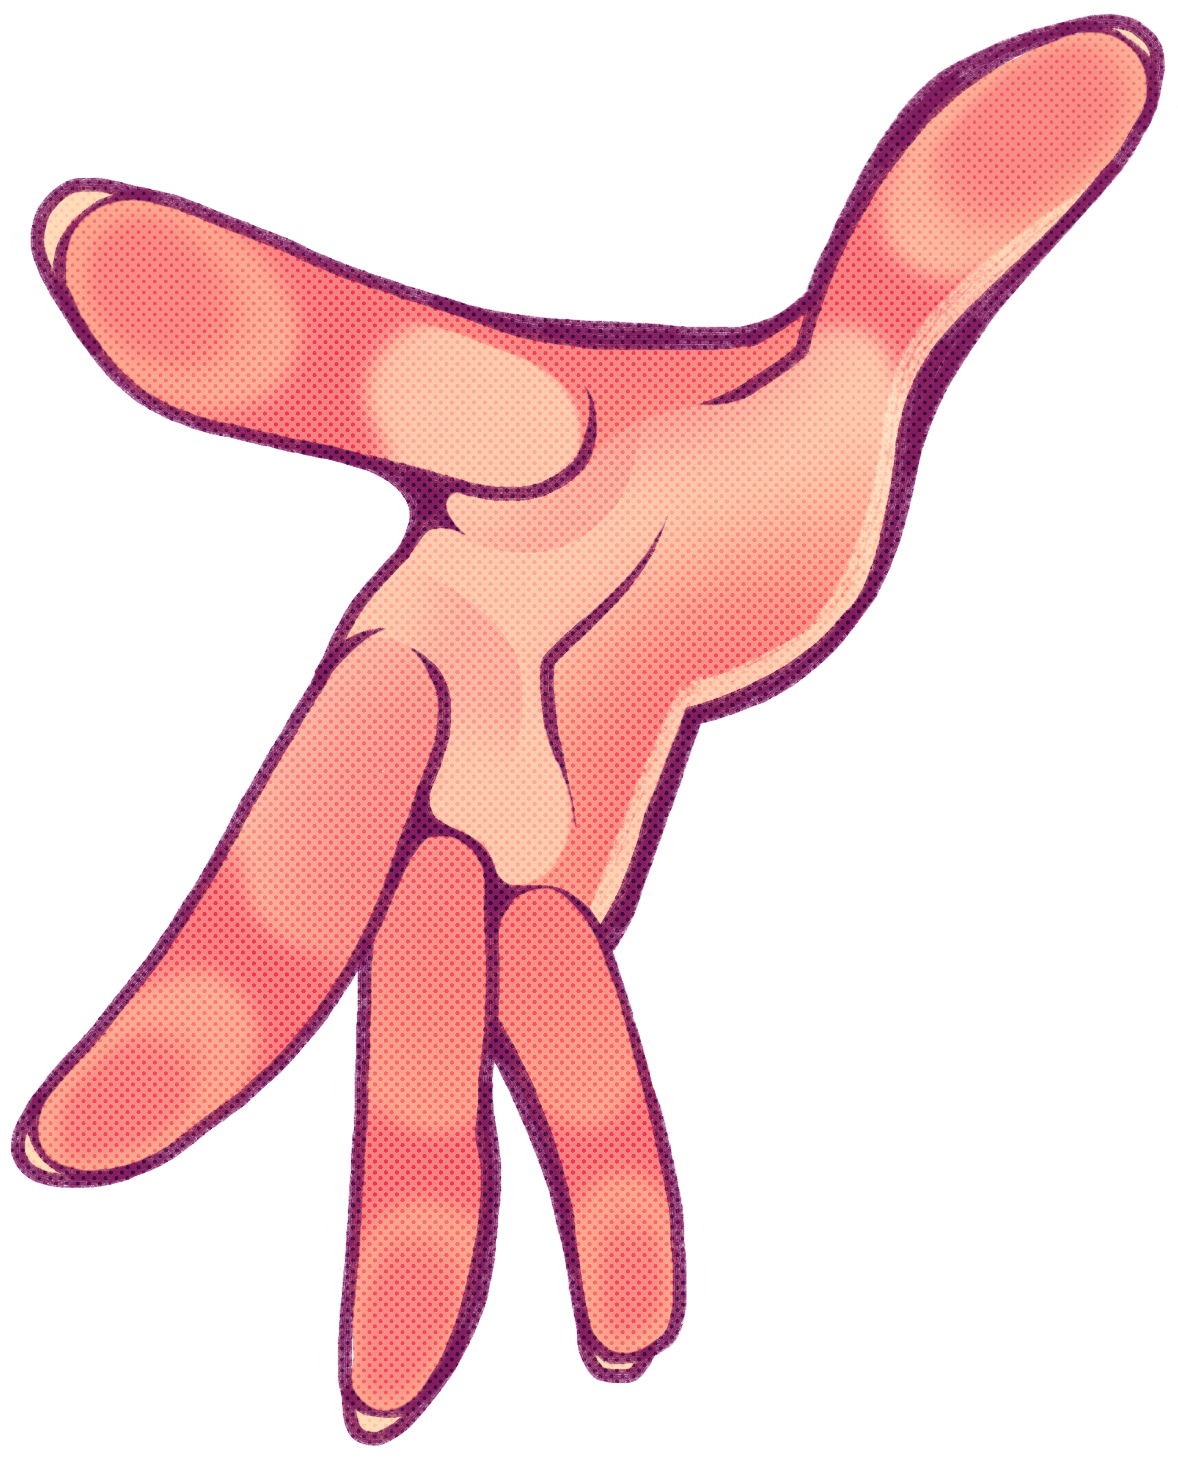
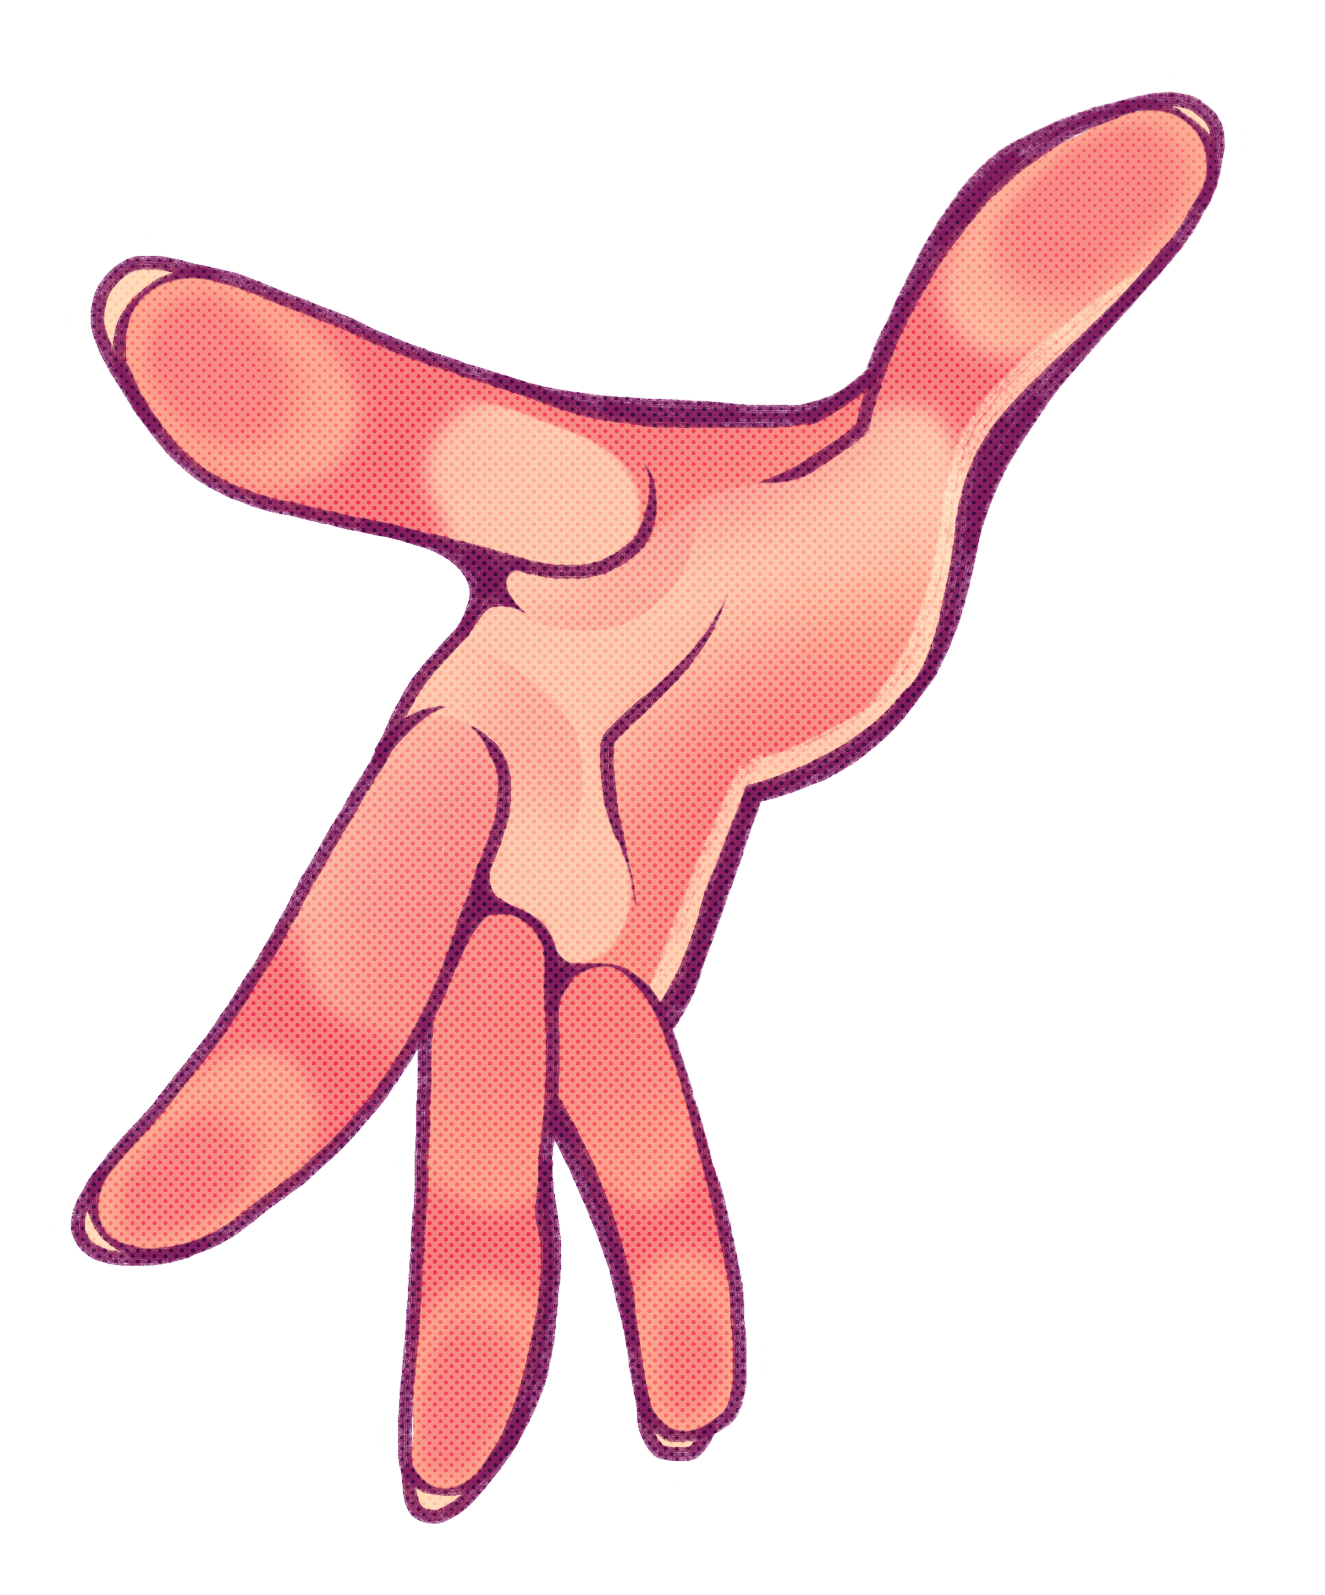
Add files via upload

Changed region(s): [[0.0, 0.0, 1.0, 1.0]]

diff --git a/style.css b/style.css
@@ -1,62 +1,119 @@
-.desktop {
+/*Desktop*/
+.bg {
+  background-image: url("imgs/bg.png");
+  background-repeat: no-repeat;
+  background-size: auto;
+  background-attachment: fixed;
+}
+
+.pu {
   position: fixed;
-  left: -5px;
   top: -5px;
+  left: -5px;
 }
 
-.desktop .bg {
+.pd {
+  position: fixed;
+  top: 800px;
+  left: -5px;
+}
+
+.me {
   position: absolute;
-  width: 1920px;
-  height: 1080px;
-  object-fit: cover;
+  position: fixed;
+  width: 1200px;
+  left: 700px;
 }
 
-.desktop .me {
+.hand {
   position: absolute;
-  top: 0;
-  left: 188px;
-  width: 1732px;
-  height: 1080px;
-  aspect-ratio: 1.6;
-  object-fit: cover;
+  width: 600px;
+  left: 550px;
+  top: -0px;
 }
 
-.desktop .pages {
+.pages1 {
   position: absolute;
-  top: 0;
-  left: 193px;
-  width: 1727px;
-  height: 1080px;
-  aspect-ratio: 1.6;
-  object-fit: cover;
+  width: 800px;
+  top: -10px;
 }
-
-.desktop .hand {
+.pages2 {
   position: absolute;
-  top: 0;
-  left: 693px;
-  width: 581px;
-  height: 720px;
-  aspect-ratio: 0.81;
-  object-fit: cover;
+  position: fixed;
+  width: 1000px;
+  top: 600px;
+  right: 0px;
 }
 
-.desktop .pagestwo {
+/*Animações*/
+.imgs {
+  animation: shake 10s;
+  animation-iteration-count: infinite;
+}
+@keyframes shake {
+  0% {transform: translate(0px, 0px) rotate(0deg);}
+  50% {transform: translate(0px, 0px) rotate(-20deg);}
+  100% {transform: translate(0px, 0px) rotate(0deg);}
+}
+
+/*Outros*/
+.button { 
+  background-color: #007bff;
+  color: #fff;
+  border: none;
+  padding: 10px 20px;
+  border-radius: 20px;
+  font-family: Arial, sans-serif;
+  font-size: 16px;
+  cursor: pointer;
   position: absolute;
-  top: 1px;
-  left: 193px;
-  width: 1727px;
-  height: 1079px;
-  aspect-ratio: 1.6;
-  object-fit: cover;
 }
 
-.imgshake:hover {
-animation: wiggle 0.5s ease-in-out infinite alternate;
-}
-@keyframes wiggle {
-  0% {transform: translate(0px, 0px) rotate(-10deg);}
-  50% {transform: translate(0px, 0px) rotate(-15deg);}
-  100% {transform: translate(0px, 0px) rotate(-10deg);}
+.buttonbig { 
+  background-color: #007bff;
+  color: #fff;
+  border: none;
+  padding: 55px 20px;
+  border-radius: 20px;
+  font-family: Arial, sans-serif;
+  font-size: 16px;
+  cursor: pointer;
+  position: absolute;
 }
 
+/*Celular*/
+@media (max-width: 768px) {
+  .bg {
+    background-image: url("imgs/bg.png");
+    background-size: auto;
+    background-repeat: no-repeat;
+  }
+  .pu {
+    top: -125px;
+  }
+  .pd {
+    top: 600px;
+  }
+  .me {
+    position: flex;
+    position: fixed;
+    left: -400px;
+    filter: grayscale(100%) opacity(50%) hue-rotate();
+  }
+  .hand {
+    position: absolute;
+    position: fixed;
+    left: -3000px;
+  }
+  .pages1 {
+    position: fixed;
+    width: 400px;
+    left: -3000px;
+  }
+  .pages2 {
+    position: fixed;
+    width: 180vw;
+    left: -20vw;
+    top: 130vw;
+  }
+}

diff --git a/index.html b/index.html
@@ -9,13 +9,46 @@
     <title>Portfólio de Mia</title>
 </head>
 <html>
-  <body>
-    <div class="desktop">
-      <img class="bg" src="imgs/bg.png" />
-      <img class="me" src="imgs/me.png" />
-      <img class="pages" src="imgs/pages1.png" />
-      <img class="hand" class="imgshake3" src="imgs/hand.png"/>
-      <img class="pagestwo" src="imgs/pages2.png" />
-    </div>
-  </body>
-</html>
+<body class="bg">
+  <img src="imgs/paperup.png" class="pu">
+  <img src="imgs/me.png" class="me">
+  <img src="imgs/pages1.png" class="pages1">
+  <img src="imgs/pages2.png" class="pages2">
+  <img src="imgs/paperdown.png" class="pd">
+  <div>
+    <p class="button" 
+    style="
+    width: 400px;
+    left: 150px;
+    "> teste </p>
+
+    <p class="button" 
+    style="
+    width: 400px;
+    left: 250px;
+    top: 60px;
+    "> teste2 </p>
+
+    <p class="button" 
+    style="
+    width: 400px;
+    left: 150px;
+    top: 120px;
+    "> teste3 </p>
+    
+    <p class="button" 
+    style="
+    width: 400px;
+    left: 150px;
+    top: 180px;
+    "> teste4 </p>
+    
+    <p class="buttonbig" 
+    style="
+    width: 400px;
+    left: 150px;
+    top: 240px;
+    "> teste5 </p>
+  </div>
+<img src="imgs/hand.png" class="hand imgs">
+</body>
